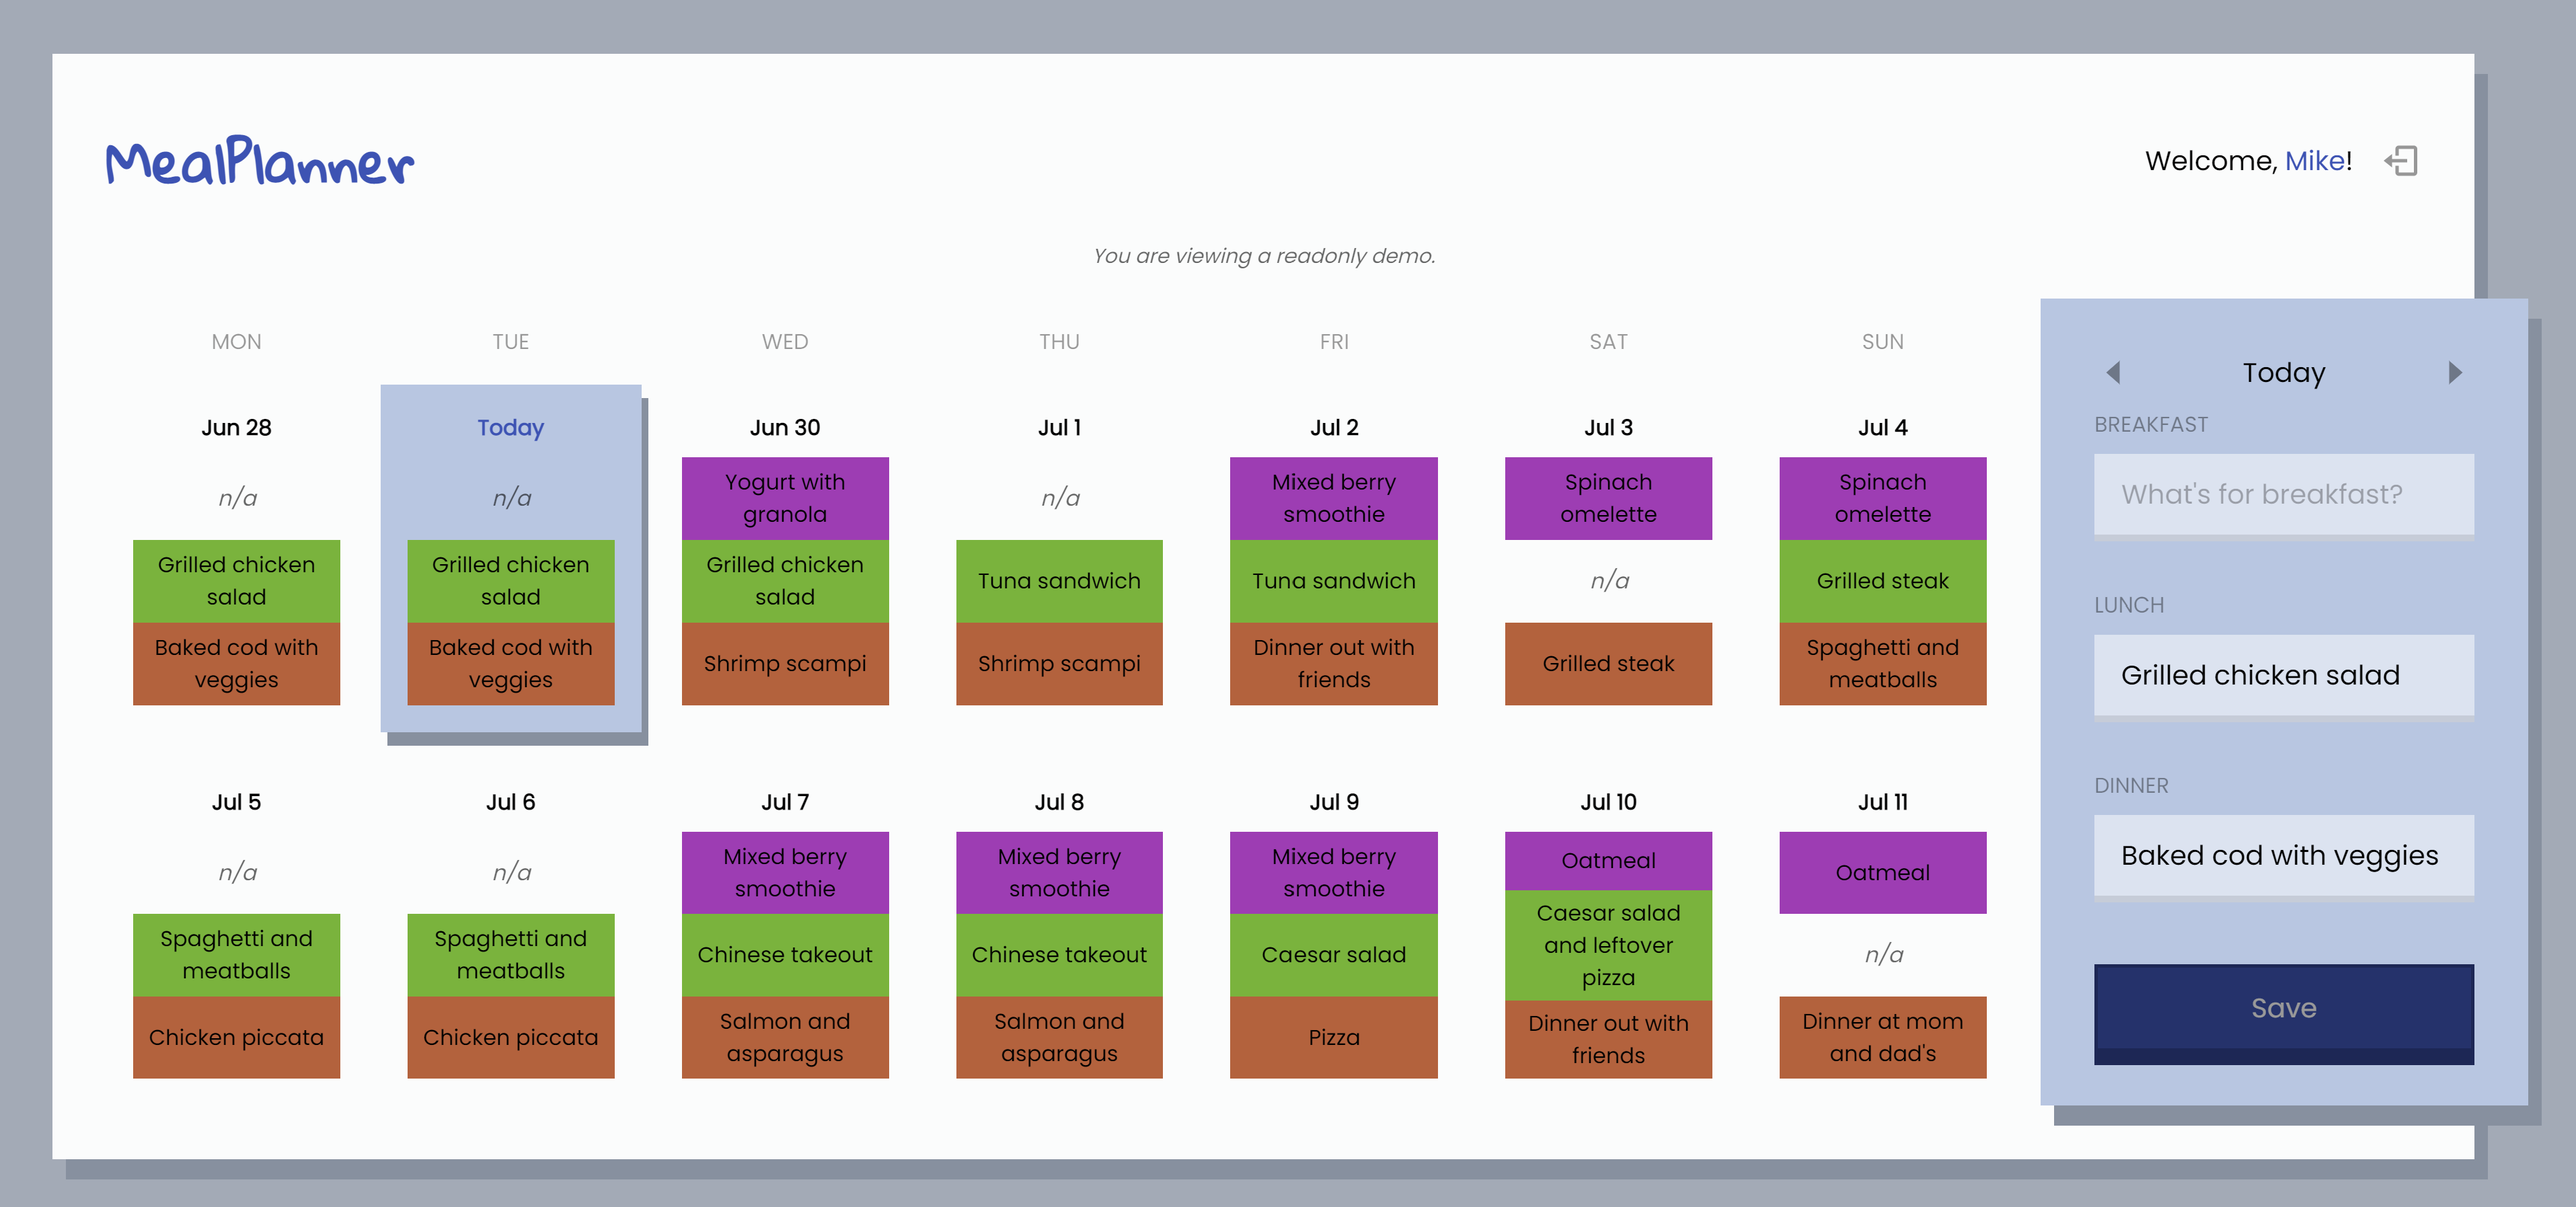
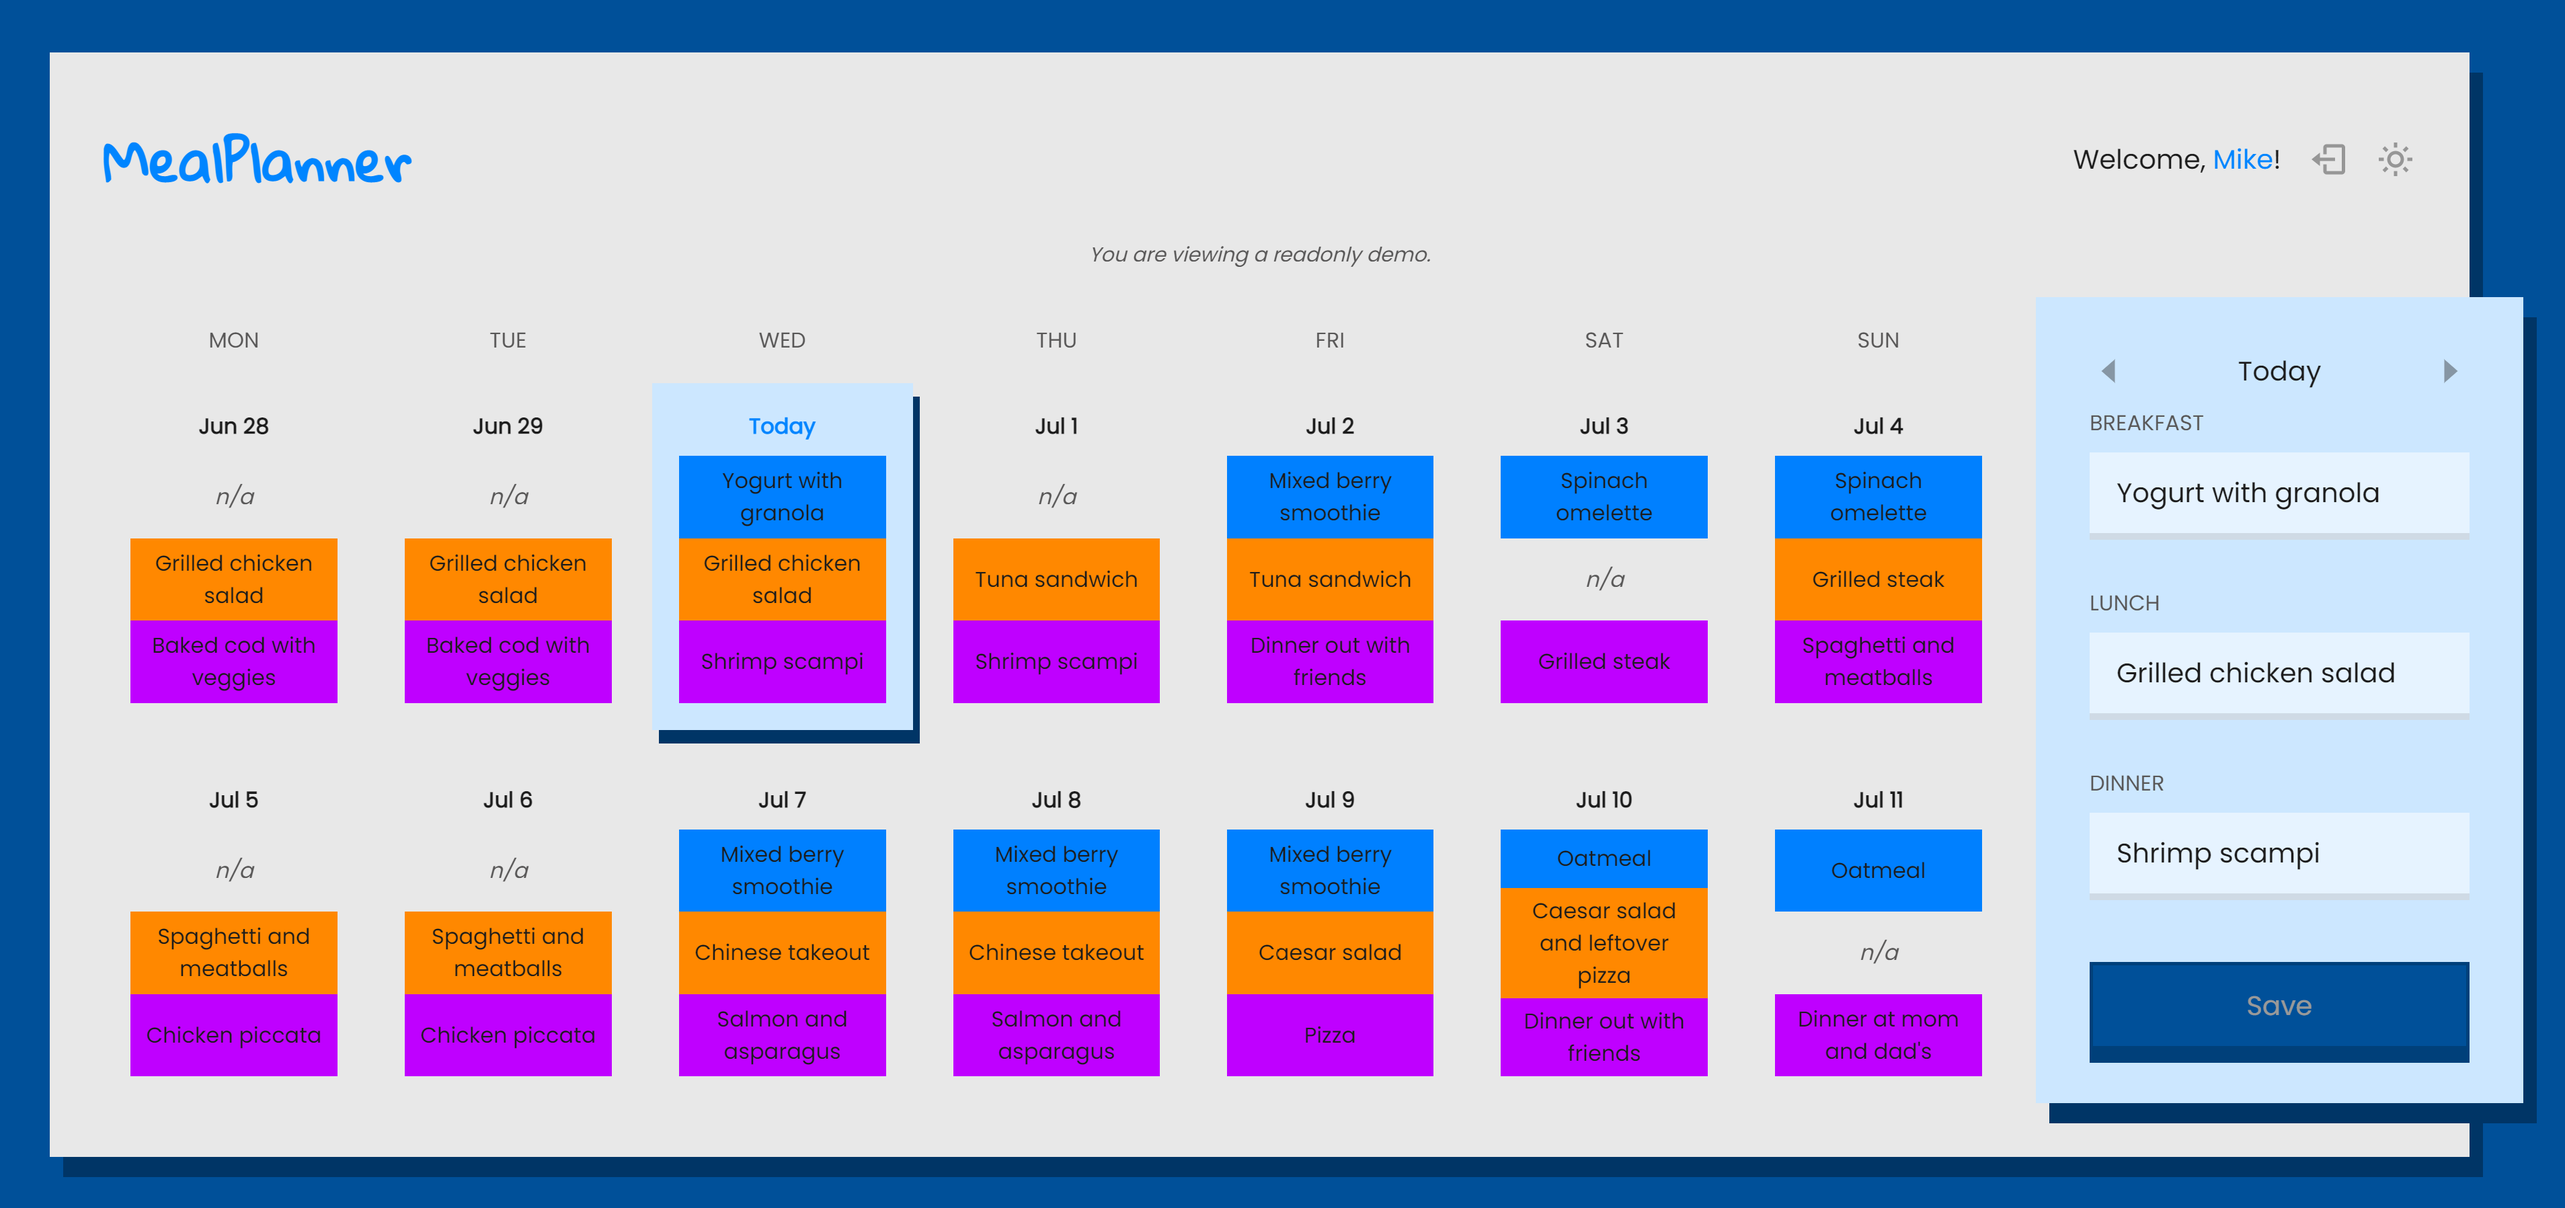
feat: change dashboard image for darkmode

diff --git a/src/components/Home/Home.tsx b/src/components/Home/Home.tsx
@@ -1,10 +1,13 @@
 import { useState } from 'react';
+import { useSelector } from 'react-redux';
 import { Link } from 'react-router-dom';
 import { BiRightArrowAlt } from 'react-icons/bi';
 import dayjs from 'dayjs';
 
 import DashboardImage from 'assets/images/dashboard.png';
+import DashboardDarkModeImage from 'assets/images/dashboard-dark.png';
 import { Routes } from 'constants/enums';
+import { selectIsDarkMode } from 'redux/reducers/userSlice';
 
 import Header from '../Header/Header';
 import LogIn from './LogIn';
@@ -13,6 +16,7 @@ import SignUp from './SignUp';
 import './Home.scss';
 
 function Home() {
+  const isDarkMode = useSelector(selectIsDarkMode);
   const [isSigningUp, setIsSigningUp] = useState(false);
 
   const toggleIsSigningUp = () => {
@@ -37,7 +41,10 @@ function Home() {
             </Link>
           </div>
           <div className="hero-image">
-            <img src={DashboardImage} alt="MealPlanner Dashboard" />
+            <img
+              src={isDarkMode ? DashboardDarkModeImage : DashboardImage}
+              alt="MealPlanner Dashboard"
+            />
           </div>
         </section>
         <section className="home-form">

diff --git a/src/styles/variables.scss b/src/styles/variables.scss
@@ -26,7 +26,7 @@
     --fgColor: #1c1c1c;
     --primaryColor: #{darken(#0085ff, 20%)};
     --primaryColorDark: #{darken(#0085ff, 30%)};
-    --shadowColor: rgba(255, 255, 255, 0.15);
+    --shadowColor: rgba(255, 255, 255, 0.1);
     // Font colors
     --fontColorBody: #e8e8e8;
     --fontColorAccent: #969696;
